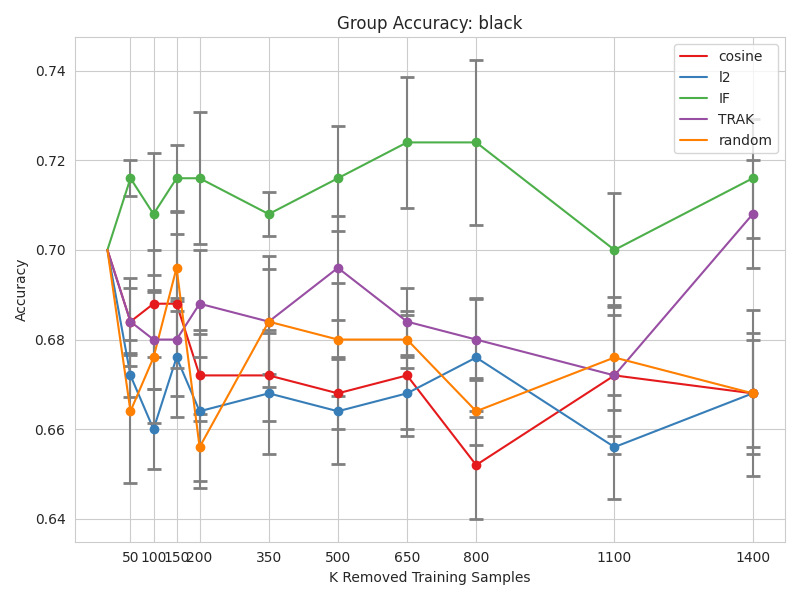
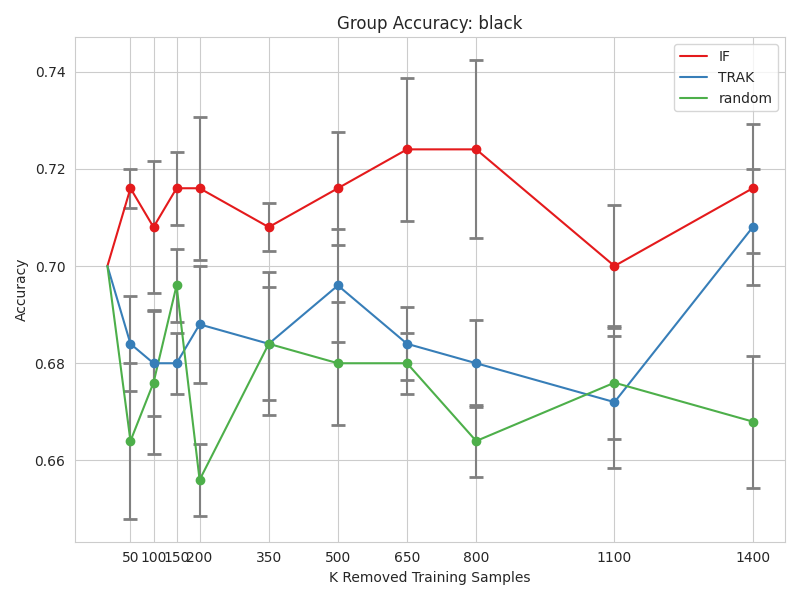
remove baseline from plots

diff --git a/exp_bert/get_examples.py b/exp_bert/get_examples.py
@@ -48,15 +48,15 @@ def main():
 
     test_df = pd.read_csv(args.data_dir + "test.csv")
     train_df  = pd.read_csv(args.data_dir + "train.csv")
-    train_group_indices = train_df['target_group'].astype('category').cat.codes.tolist()
-    test_group_indices = test_df['target_group'].astype('category').cat.codes.tolist()
+    train_group_indices = train_df['group'].astype('category').cat.codes.tolist()
+    test_group_indices = test_df['group'].astype('category').cat.codes.tolist()
 
     test_dataset = get_dataset(tokenizer,config.MAX_LENGTH,args.data_dir,"test")
     train_dataset = get_dataset(tokenizer,config.MAX_LENGTH,args.data_dir,"train")
     test_dl = get_dataloader(test_dataset, 32, shuffle=False)
     train_dl = get_dataloader(train_dataset, 32, shuffle=False)
 
-    model = AutoModelForSequenceClassification.from_pretrained(args.checkpoint_dir,num_labels = 2).to("cuda")    
+    model = AutoModelForSequenceClassification.from_pretrained(args.checkpoint_dir,num_labels = 2).to(DEVICE)    
     model.eval()
 
     for method in ["BM25","l2","cosine","IF","TRAK"]:
@@ -72,8 +72,7 @@ def main():
                     group_indices_val=test_group_indices,
                     scores=scores,
                     train_set_size=None,
-                    val_set_size=None,
-                    device="cuda")
+                    val_set_size=None)
 
         group_losses = d3m.get_group_losses(
                                 model=d3m.model,

diff --git a/exp_bert/vis_k_removed.py b/exp_bert/vis_k_removed.py
@@ -60,7 +60,7 @@ def main():
     base_model_acc = compute_accuracy(base_model,test_dl,DEVICE)
 
     colors = sns.color_palette("Set1", n_colors=6)
-    methods = ["cosine","l2","IF","TRAK","random"]
+    methods = ["IF","TRAK","random"]
     ks = [50,100,150,200,350,500,650,800, 1100,1400]
 
     for method,color in zip(methods, colors):
